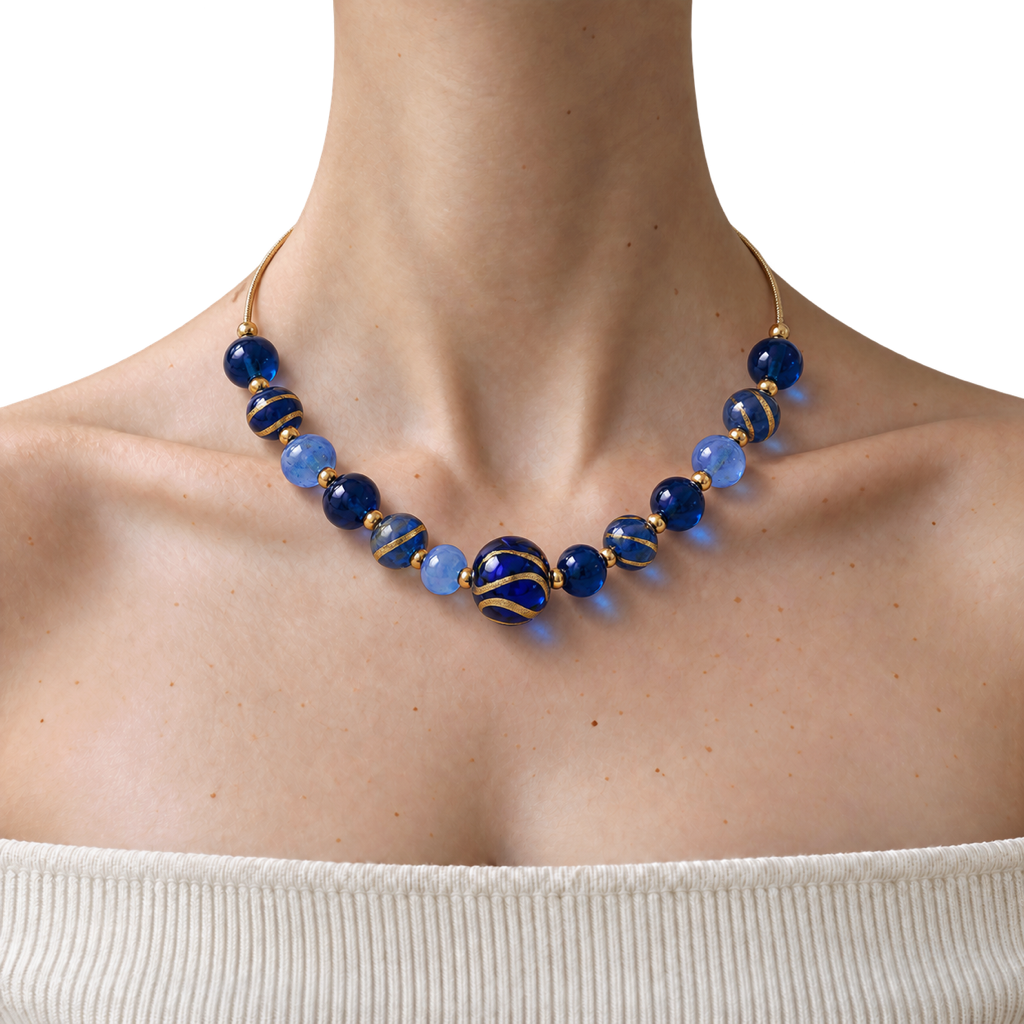
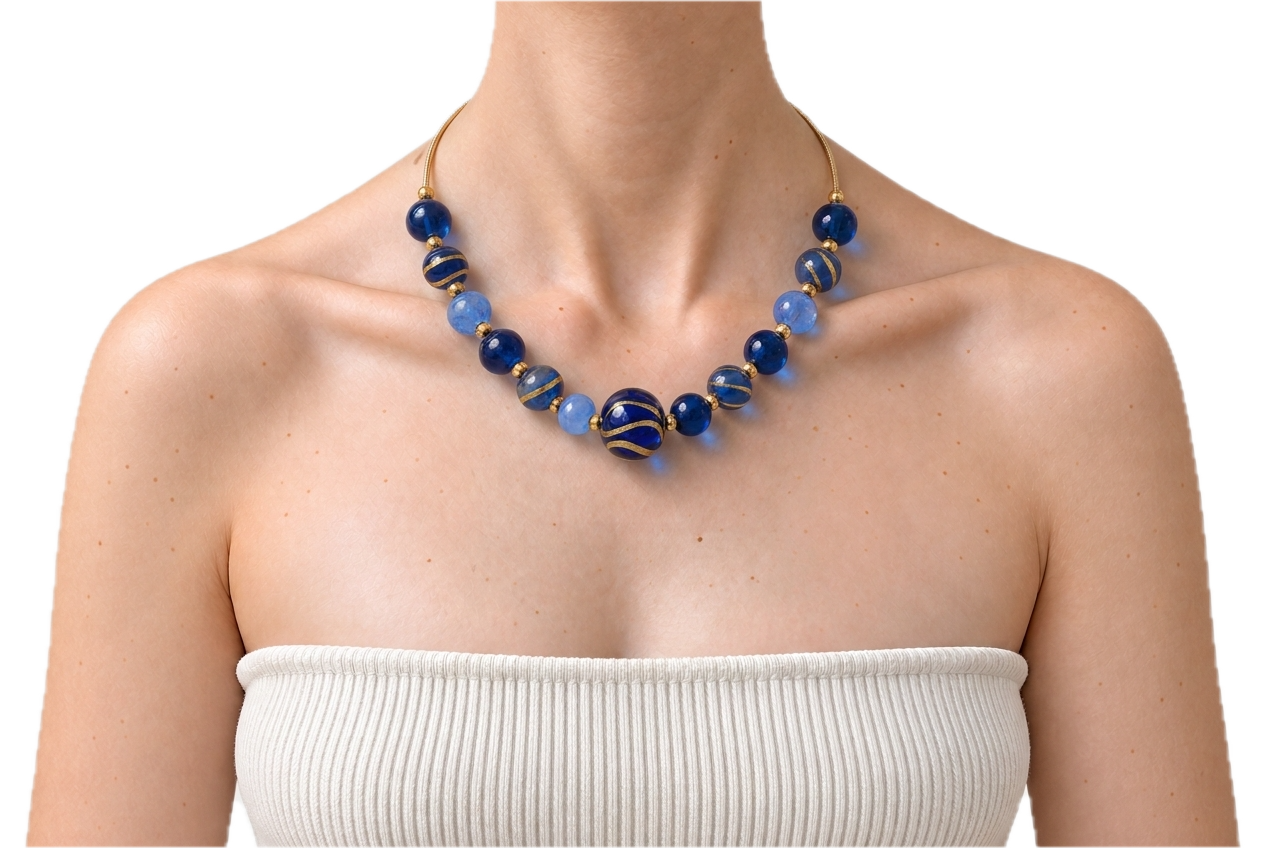
Midnight front photo redone (Gemini) to match the others; used on the sold card and the Ask menu

diff --git a/index.html b/index.html
@@ -8,7 +8,7 @@
 <link rel="preconnect" href="https://fonts.googleapis.com">
 <link rel="preconnect" href="https://fonts.gstatic.com" crossorigin>
 <link href="https://fonts.googleapis.com/css2?family=Bagel+Fat+One&family=Fredoka:wght@400;500;600&family=Shrikhand&display=swap" rel="stylesheet">
-<link rel="stylesheet" href="styles.css?v=88">
+<link rel="stylesheet" href="styles.css?v=90">
 </head>
 <body>
 <a class="skip" href="#shop">Skip to the necklaces</a>
@@ -222,10 +222,10 @@
   </div>
 </dialog>
 
-<script src="products.js?v=88"></script>
-<script src="standin.js?v=88"></script>
-<script src="splash.js?v=88"></script>
-<script src="shop.js?v=88"></script>
-<script src="play.js?v=88"></script>
+<script src="products.js?v=90"></script>
+<script src="standin.js?v=90"></script>
+<script src="splash.js?v=90"></script>
+<script src="shop.js?v=90"></script>
+<script src="play.js?v=90"></script>
 </body>
 </html>
